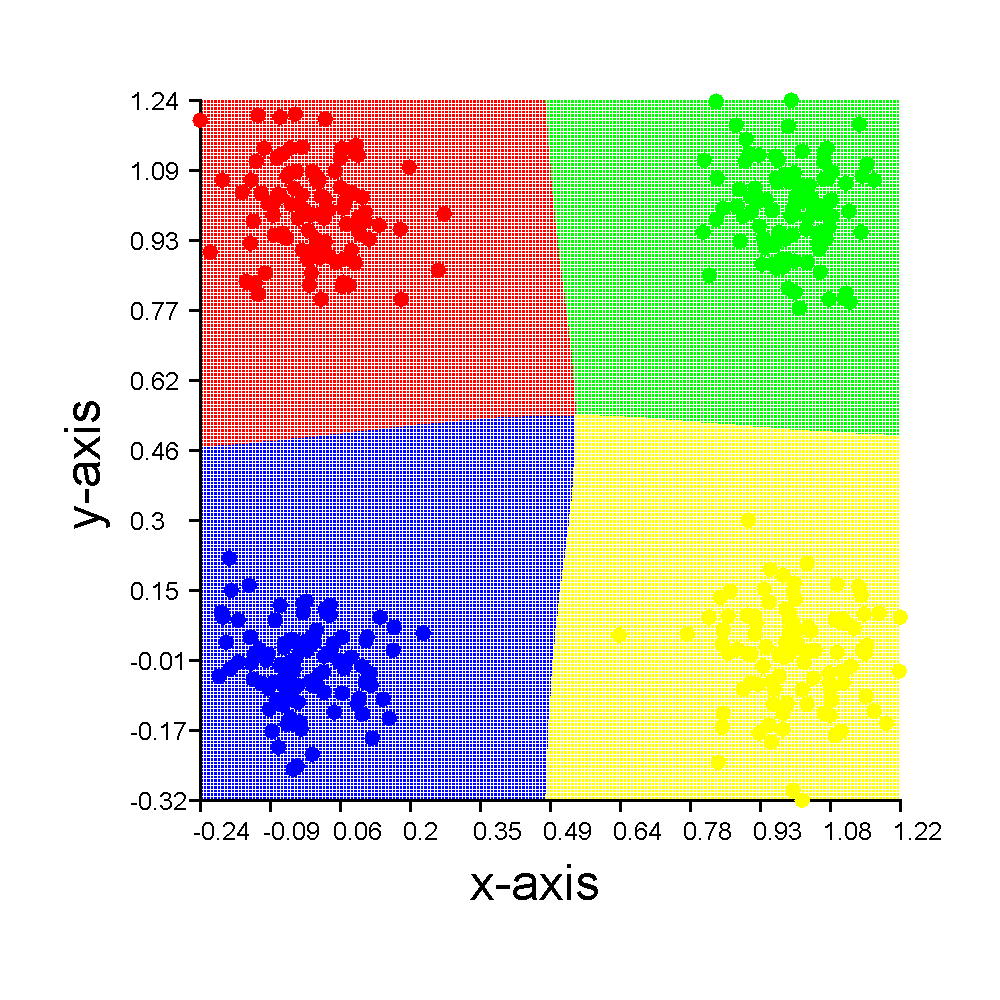
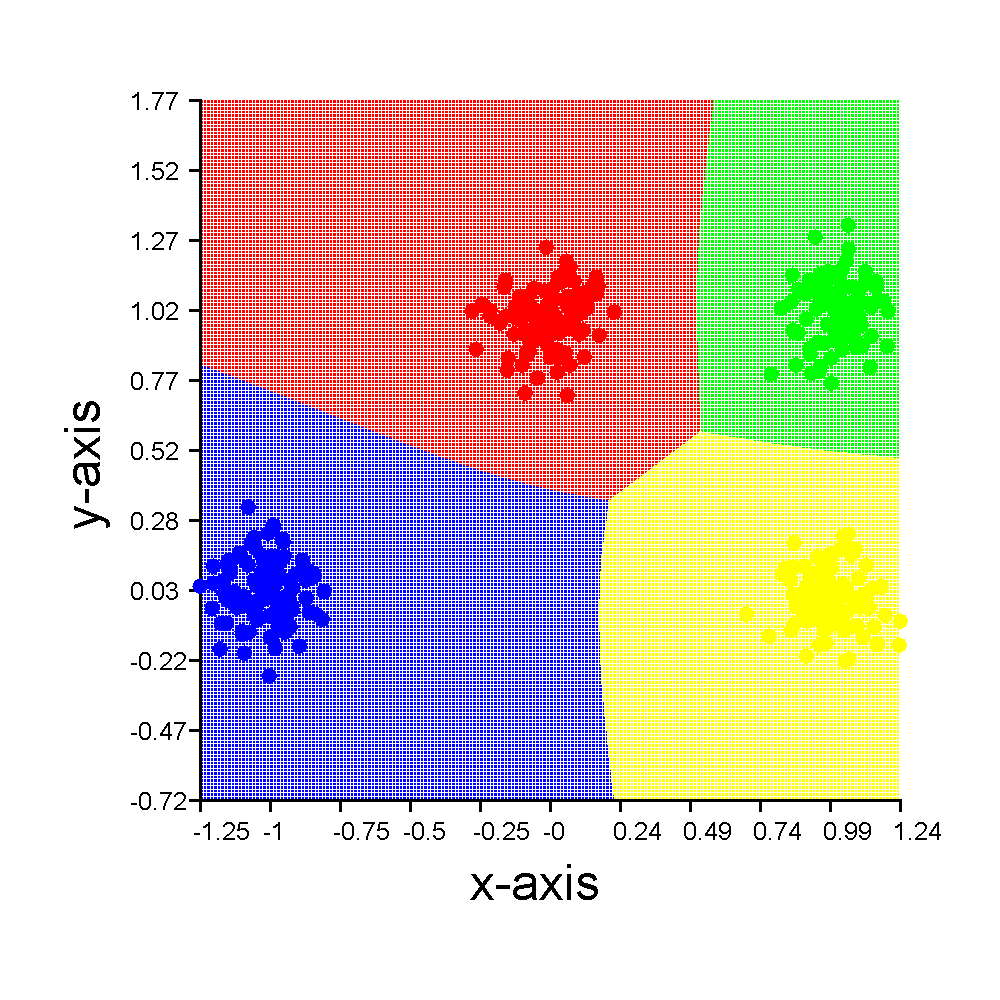
Added new examples

diff --git a/src/graph/Graph.java b/src/graph/Graph.java
@@ -16,6 +16,7 @@ public class Graph{
 	private BufferedImage graph;
 	private Graphics2D graphics;
 	private ArrayList<Point> points = new ArrayList<Point>();
+	private ArrayList<Line> lines = new ArrayList<Line>();
 	private int width;
 	private int height;
 	private int xTicks;
@@ -106,6 +107,15 @@ public class Graph{
 				yMax = 10;
 			if(yMin == Double.MAX_VALUE)
 				yMin = 0;
+			if(xMax - xMin > yMax - yMin){
+				double diff = xMax - xMin - yMax + yMin;
+				yMin -= diff / 2;
+				yMax += diff / 2;
+			}else{
+				double diff = yMax - yMin - xMax + xMin;
+				xMin -= diff / 2;
+				xMax += diff / 2;
+			}
 		}
 		
 		if(colorFunction != null){
@@ -152,6 +162,13 @@ public class Graph{
 			graphics.setColor(points.get(i).getColor());
 			graphics.fillOval(padding * 2 + (int)((points.get(i).getX() - xMin) / (xMax - xMin) * (width - padding * 3)) - 8, (height - padding * 2) - (int)((points.get(i).getY() - yMin) / (yMax - yMin) * (height - padding * 3)) - 8, 16, 16);
 		}
+		
+		for(int i = 0; i < lines.size(); i++){
+			graphics.setColor(lines.get(i).getColor());
+			double y1 = lines.get(i).getM() * xMin + lines.get(i).getB();
+			double y2 = lines.get(i).getM() * xMax + lines.get(i).getB();
+			graphics.drawLine(padding * 2, (height - padding * 2) - (int)((y1 - yMin) / (yMax - yMin) * (height - padding * 3)), padding * 2 + width - padding * 3, (height - padding * 2) - (int)((y2 - yMin) / (yMax - yMin) * (height - padding * 3)));
+		}
 	}
 	
 	public void saveToFile(String path, String type){
@@ -168,6 +185,14 @@ public class Graph{
 	
 	public void addPoint(double x, double y){
 		points.add(new Point(x, y));
+	}
+	
+	public void addLine(double m, double b, Color c){
+		lines.add(new Line(m, b, c));
+	}
+	
+	public void addLine(double m, double b){
+		lines.add(new Line(m, b));
 	}
 	
 	public BufferedImage getGraph(){

diff --git a/src/test/GraphTest2.java b/src/test/GraphTest2.java
@@ -1,0 +1,53 @@
+package test;
+
+import javax.swing.JFrame;
+
+import graph.Graph;
+import graph.GraphPanel;
+import layer.FCLayer;
+import network.SimpleNeuralNetwork;
+import optimizer.SGDOptimizer;
+import utils.Loss;
+import utils.UtilMethods;
+
+public class GraphTest2{
+	public static void main(String[] args){
+		SimpleNeuralNetwork nn = new SimpleNeuralNetwork(1);
+		nn.add(new FCLayer(1));
+		
+		double[][] x = {
+				{0},
+				{1},
+				{2},
+				{3},
+				{4}
+		};
+		
+		double[][] y = {
+				{3 + 0 + 1},
+				{3 + 5 - 1},
+				{3 + 10 + 1},
+				{3 + 15 - 1},
+				{3 + 20 + 1}
+		};
+		
+		nn.fit(x, y, 10, 1, Loss.squared, new SGDOptimizer(0.01), 0, true);
+		
+		UtilMethods.printArray(nn.predict(new double[]{5}));
+		
+		JFrame frame = new JFrame();
+		
+		Graph graph = new Graph(1000, 1000, UtilMethods.flattenData(x), UtilMethods.flattenData(y), null, null);
+		graph.useCustomScale(0, 5, 0, 30);
+		graph.addLine(nn.layers().get(0).edges()[0].getWeight(), nn.layers().get(0).getBias()[0]);
+		graph.draw();
+		frame.add(new GraphPanel(graph));
+		
+		frame.setSize(1200, 1200);
+		frame.setLocationRelativeTo(null);
+		frame.setDefaultCloseOperation(JFrame.EXIT_ON_CLOSE);
+		frame.setVisible(true);
+		
+		graph.saveToFile("nn_linear_regression.png", "png");
+	}
+}

diff --git a/src/test/GraphTest1.java b/src/test/GraphTest1.java
@@ -19,7 +19,7 @@ public class GraphTest1{
 		net.add(new FCLayer(3, Activation.sigmoid));
 		net.add(new FCLayer(4, Activation.softmax));
 		
-		double[][] x = UtilMethods.concat(UtilMethods.concat(UtilMethods.standardDist(0, 0, 0.1, 100), UtilMethods.standardDist(0, 1, 0.1, 100)), UtilMethods.concat(UtilMethods.standardDist(1, 0, 0.1, 100), UtilMethods.standardDist(1, 1, 0.1, 100)));
+		double[][] x = UtilMethods.concat(UtilMethods.concat(UtilMethods.standardDist(-1, 0, 0.1, 100), UtilMethods.standardDist(0, 1, 0.1, 100)), UtilMethods.concat(UtilMethods.standardDist(1, 0, 0.1, 100), UtilMethods.standardDist(1, 1, 0.1, 100)));
 		double[][] y1 = new double[100][4];
 		for(int i = 0; i < y1.length; i++){
 			y1[i] = UtilMethods.oneHotEncode(0, 4);

diff --git a/src/graph/Line.java b/src/graph/Line.java
@@ -1,0 +1,32 @@
+package graph;
+
+import java.awt.Color;
+
+public class Line{
+	private double m, b;
+	private Color c;
+	
+	public Line(double m, double b){
+		this.m = m;
+		this.b = b;
+		this.c = Color.black;
+	}
+	
+	public Line(double m, double b, Color c){
+		this.m = m;
+		this.b = b;
+		this.c = c;
+	}
+	
+	public double getM(){
+		return m;
+	}
+	
+	public double getB(){
+		return b;
+	}
+	
+	public Color getColor(){
+		return c;
+	}
+}
